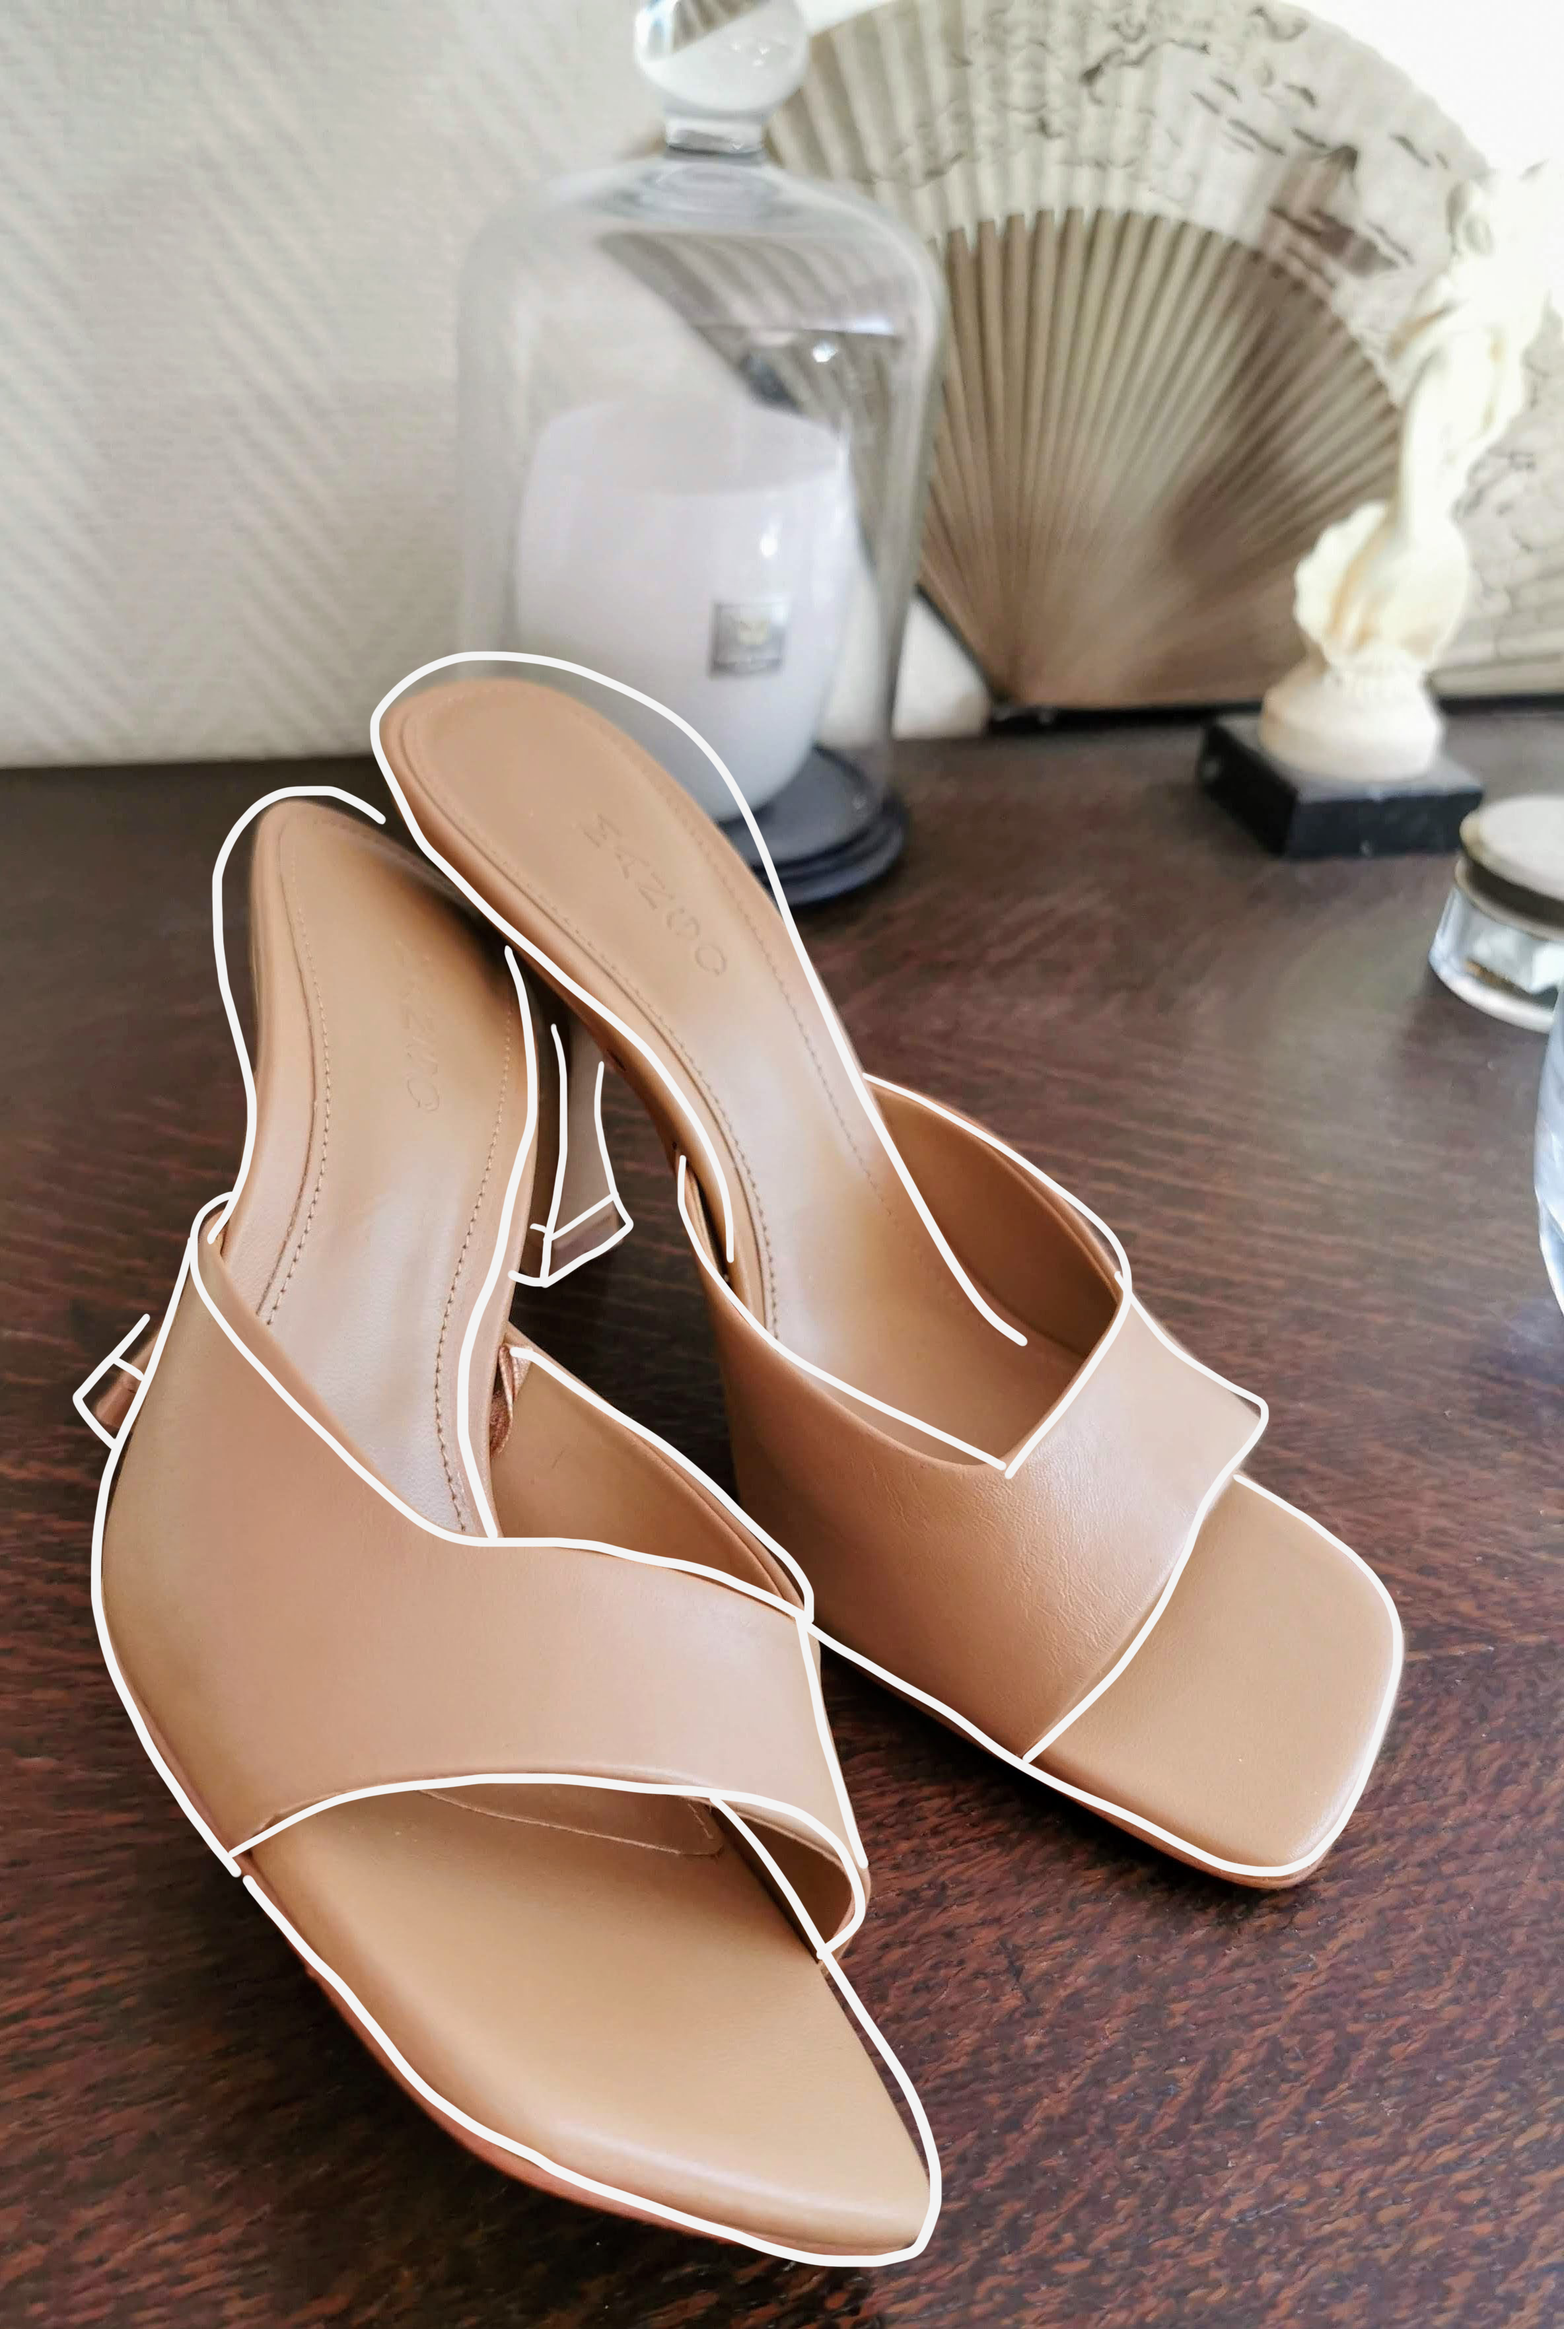
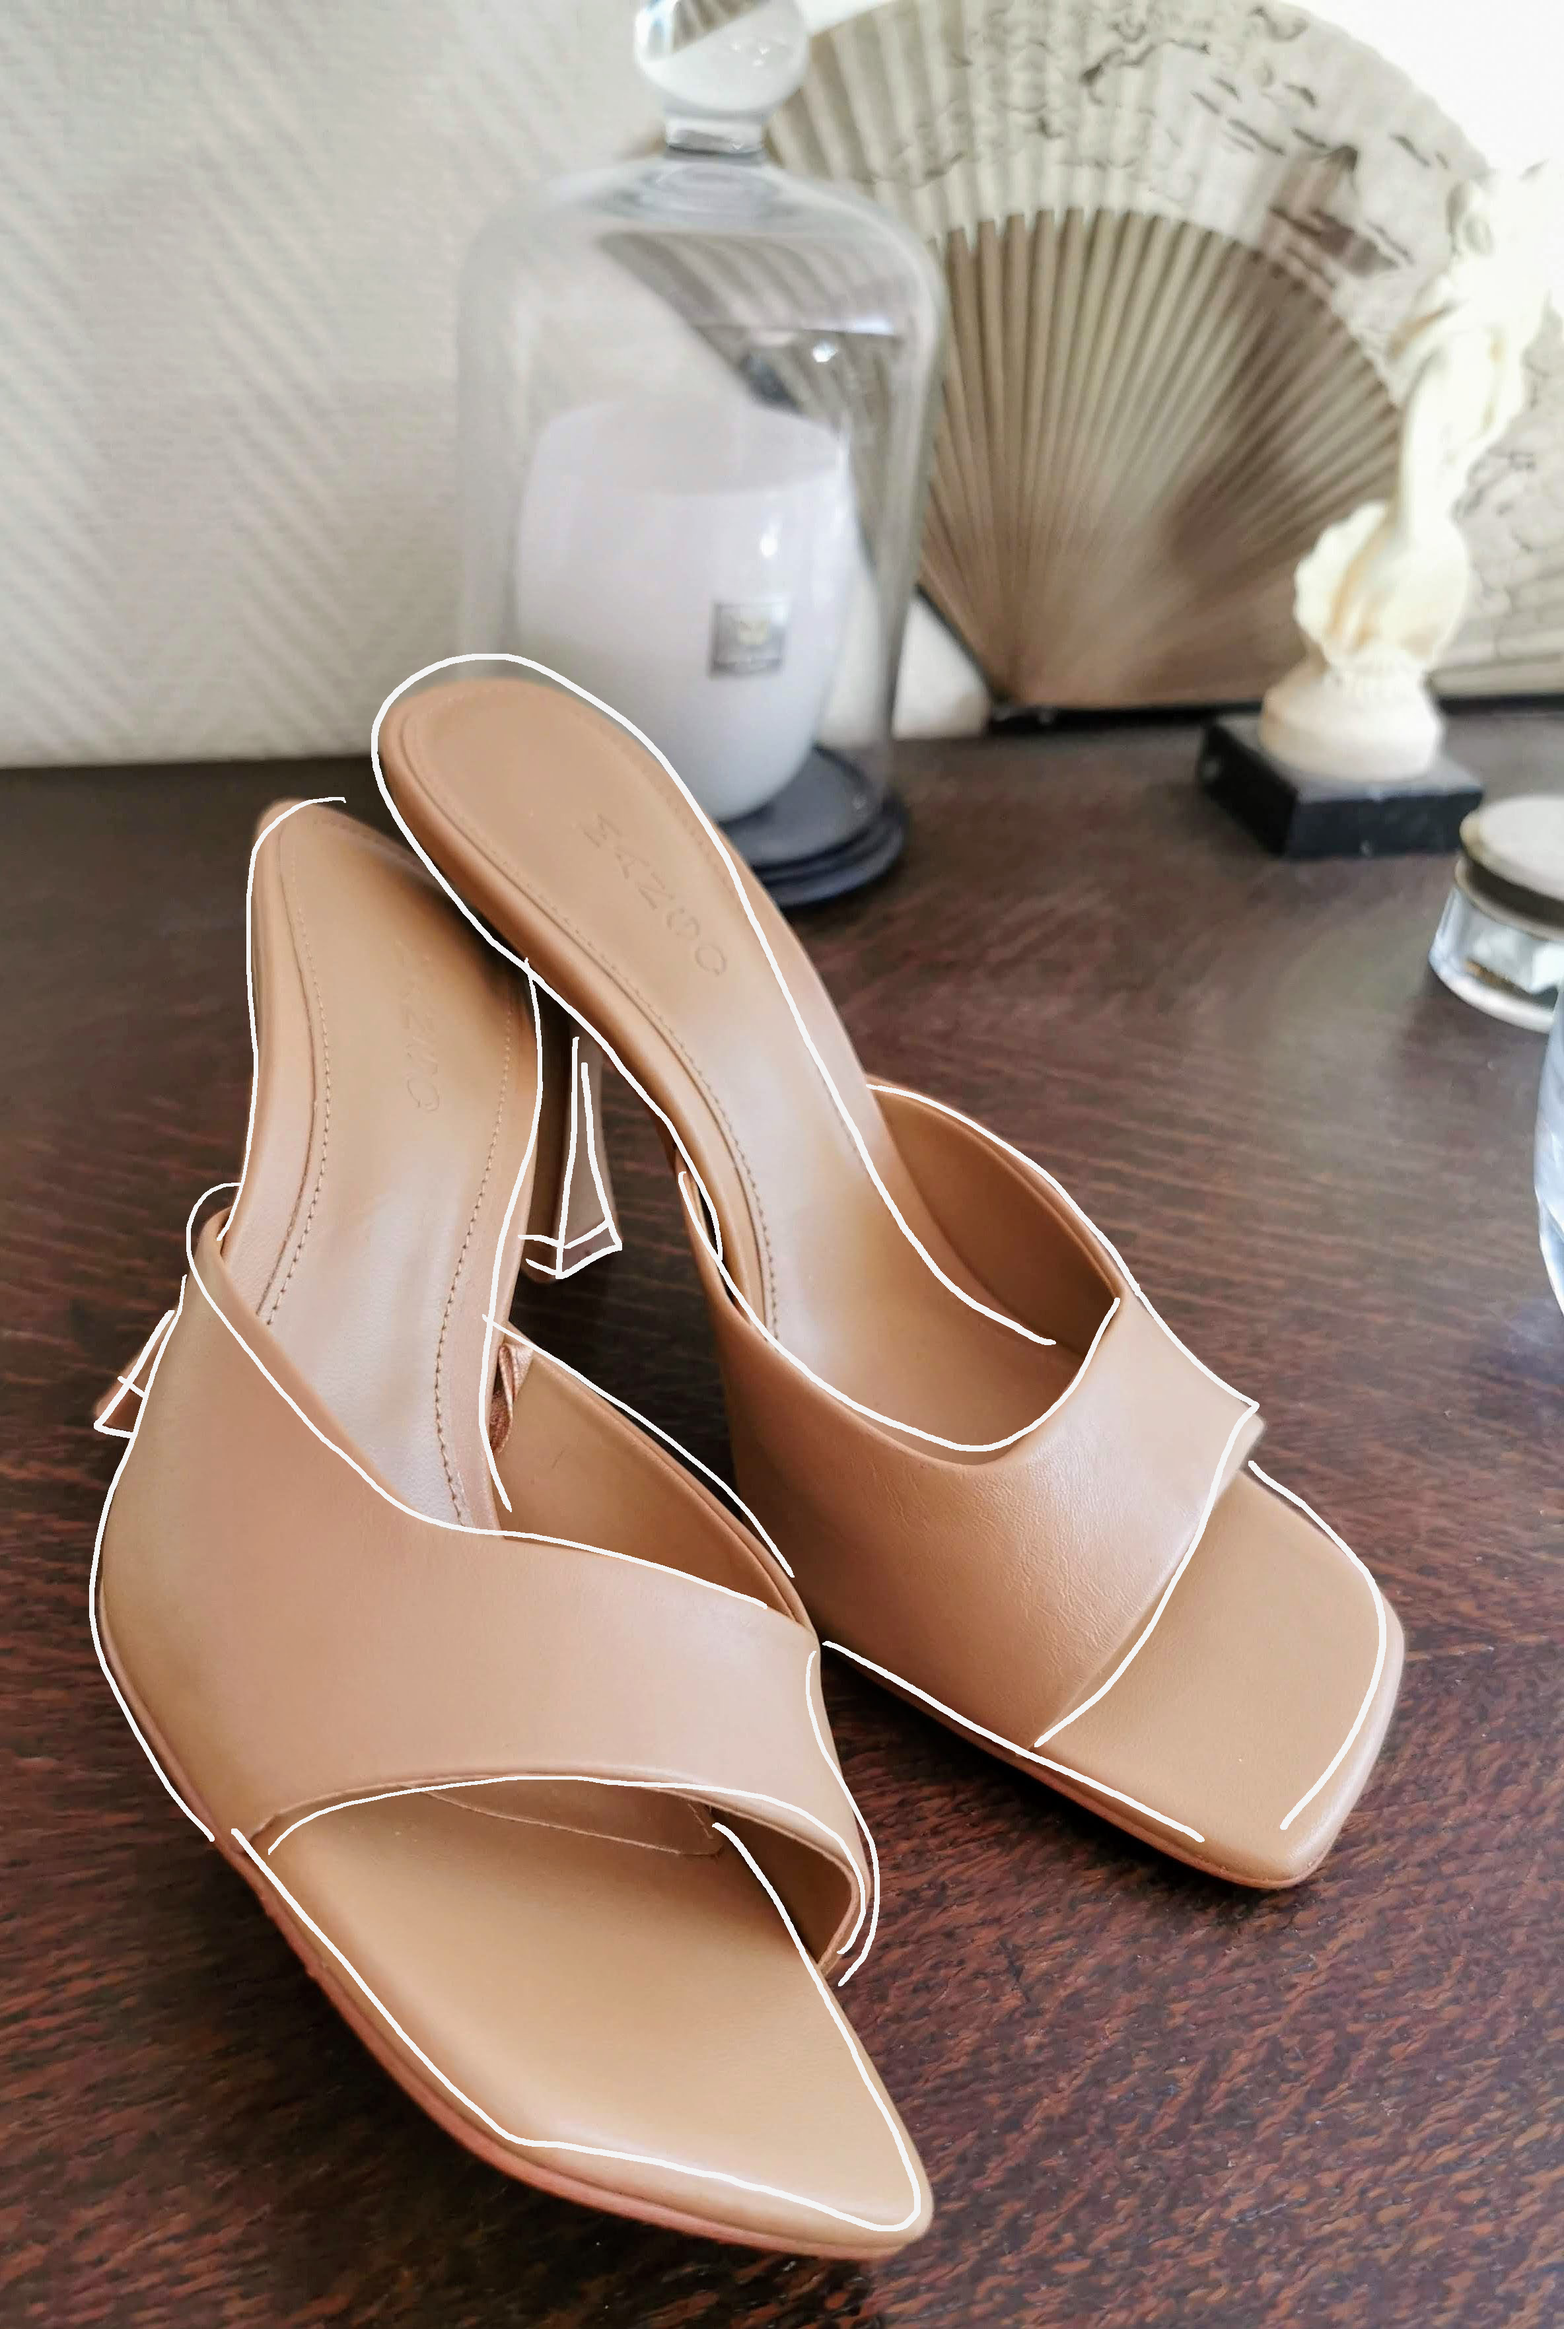
try fix

diff --git a/data/shoes/mangoBottega.js b/data/shoes/mangoBottega.js
@@ -7,8 +7,8 @@ import mango1Preview from "../../public/images/shoes/mangoBottega1.png?lqip";
 import mango1 from "../../public/images/shoes/mangoBottega1.png?resize&sizes[]=300&sizes[]=600&sizes[]=1000";
 import mango2Preview from "../../public/images/shoes/mangoBottega.png?lqip";
 import mango2 from "../../public/images/shoes/mangoBottega.png?resize&sizes[]=300&sizes[]=600&sizes[]=1000";
-// import mango3Preview from "../../public/images/shoes/mangoBottega3Bis.png?lqip";
-import mango3 from "../../public/images/shoes/mangoBottega3Bis.png?resize&sizes[]=300&sizes[]=600&sizes[]=1000";
+import mango3Preview from "../../public/images/shoes/mangoBottega3.png?lqip";
+import mango3 from "../../public/images/shoes/mangoBottega3.png?resize&sizes[]=300&sizes[]=600&sizes[]=1000";
 import mango4Preview from "../../public/images/shoes/mangoBottega4.png?lqip";
 import mango4 from "../../public/images/shoes/mangoBottega4.png?resize&sizes[]=300&sizes[]=600&sizes[]=1000";
 import mango5Preview from "../../public/images/shoes/mangoBottega5.png?lqip";
